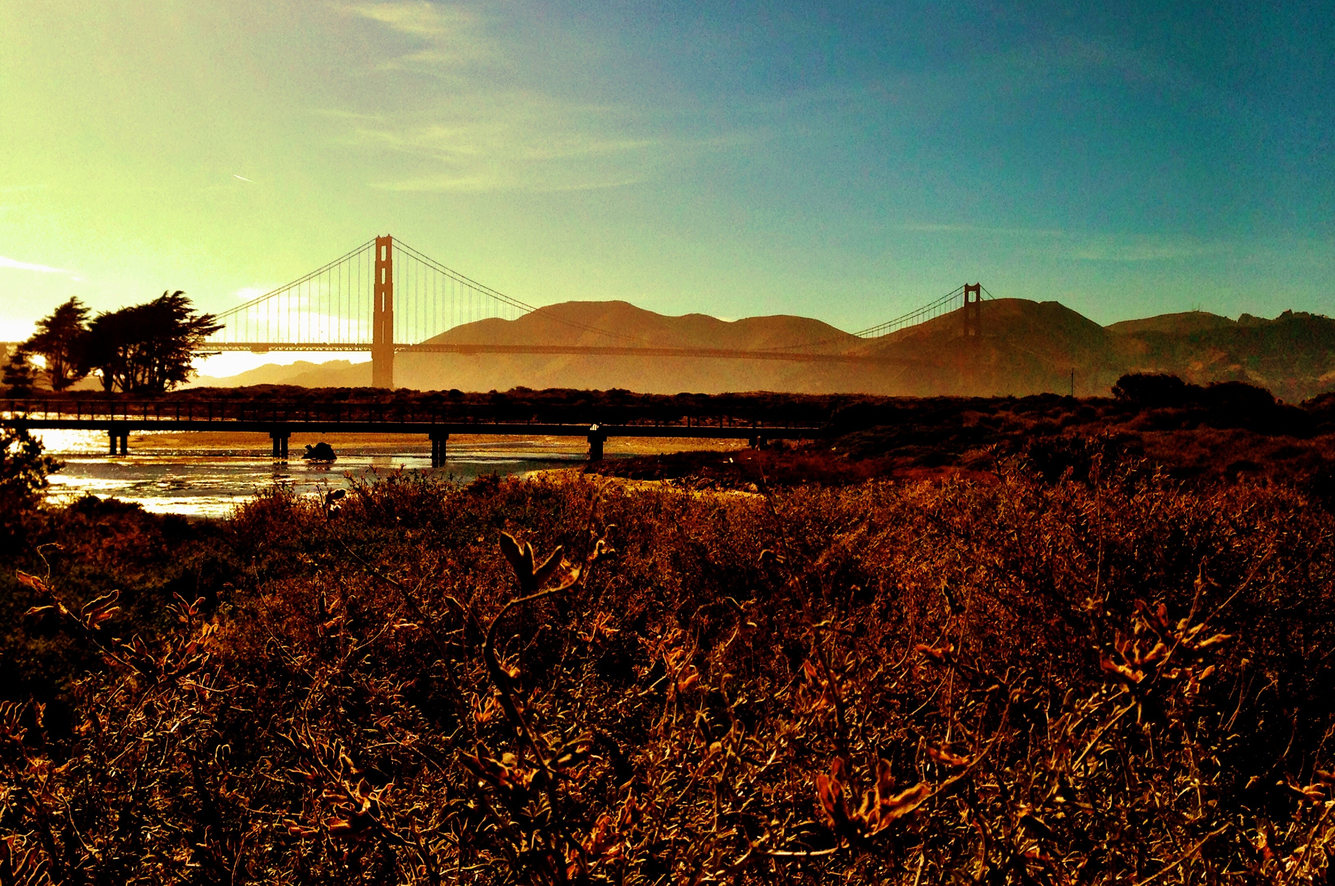
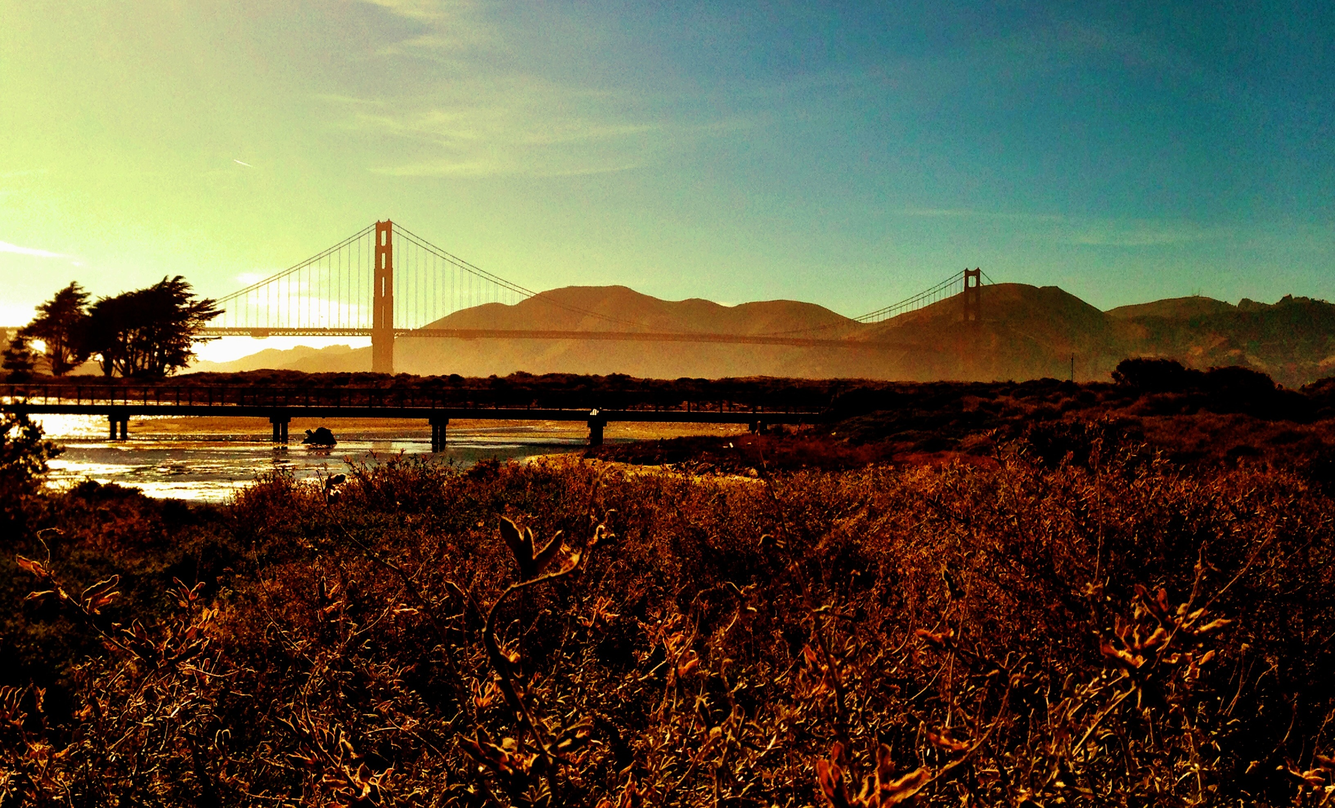
changed dimensions of main picture, added media queries for new break, cleaned up device transitions

diff --git a/index.html b/index.html
@@ -6,7 +6,7 @@
 	<script type='text/javascript' src='http://ajax.googleapis.com/ajax/libs/jquery/1.4/jquery.min.js'></script>
 </head>
 <body>
-	<a name="home">	Designed and Created by Laura Mead.  All Rights Reserved. Copyright 2014</a>
+	<a name="home" id="copyright">	Designed and Created by Laura Mead.  All Rights Reserved. Copyright 2014</a>
 	<div class="stickymenu_wrap">
 		<div class="stickymenu">
 			<a href="javscript:void(0);" id="buttonMenuHidden" class="btn_menu tablet">
@@ -20,9 +20,9 @@
 					<li class="last"><a href="#contact" class="anchorLink contact">Contact</a></li>
 				</ul>
 				<ul class="sticky_nav tablet" id="divMenuHidden">
-					<li><a href="#about" class="anchorLink aboutB">About</a></li>
+					<li><a href="#about" id="white" class="anchorLink aboutB">About</a></li>
 					<li><a href="#resume" class="anchorLink resumeB">Resume</a></li>
-					<li class="long"><a href="#portfolio" class="anchorLink portfolioB">Portfolio</a></li>
+					<li class="long"><a id="white" href="#portfolio" class="anchorLink portfolioB">Portfolio</a></li>
 					<li class="last"><a href="#contact" class="anchorLink contactB">Contact</a></li>
 				</ul>
 				<div class="push"></div>
@@ -41,9 +41,9 @@
 					<li class="last"><a href="#contact" class="anchorLink contact">Contact</a></li>
 				</ul>
 				<ul class="main_nav tablet" id="divMenu">
-					<li><a href="#about" class="anchorLink aboutB">About</a></li>
+					<li><a href="#about" id="white" class="anchorLink aboutB">About</a></li>
 					<li><a href="#resume" class="anchorLink resumeB">Resume</a></li>
-					<li class="long"><a href="#Portfolio" class="anchorLink portfolioB">Portfolio</a></li>
+					<li class="long"><a href="#Portfolio" id="white" class="anchorLink portfolioB">Portfolio</a></li>
 					<li class="last"><a href="#contact" class="anchorLink contactB">Contact</a></li>
 				</ul>
 				<div class="push"></div>

diff --git a/css/main.css b/css/main.css
@@ -25,6 +25,10 @@ body {
 	background-size: contain;
 }
 
+#white{
+	color: #fff;
+}
+
 .title{
 	font-family: 'Devil Breeze';
 	font-size: 6.5em;
@@ -203,7 +207,6 @@ h2 {
 .header h1 {
 	float: left;
 	display: inline;
-	font-size: 2.5em;
 }
 
 .header h1 a{
@@ -211,6 +214,7 @@ h2 {
 	color: #fff;
 	font-family: 'Devil Breeze';
 	letter-spacing: 4px;
+	font-size: 2em;
 }
 
 .main_nav li {
@@ -267,7 +271,13 @@ a.btn_menu img {
 /* Media Query: Tablet
 ==========================*/
 
-@media only screen and (max-width: 902px){
+@media only screen and (max-width: 1066px){
+	.header h1 a{
+		font-size: 1.5em;
+	}
+}
+
+@media only screen and (max-width: 965px){
 	.tablet, a.tablet {
 		display: block;
 	}
@@ -300,7 +310,7 @@ a.btn_menu img {
 	.main_nav li a{
 		padding: 20px 0;
 		display: block;
-		color: #fff;
+		color: #242F38;
 	}
 
 	.main_nav li.last {
@@ -356,7 +366,6 @@ a.btn_menu img {
 		width: 67%;
 		font-size: 4.5em;
 	}
-
 }
 
 /* Media Query: Phone
@@ -365,6 +374,26 @@ a.btn_menu img {
 @media only screen and (max-width: 480px) {
 	.main_nav li, .sticky_nav li{
 		width: 23%;
+	}
+
+	#copyright{
+		font-size: 0.1em;
+	}
+
+	.header h1 a{
+		font-size: 0.9em;
+	}
+
+	.stickymenu_wrap h1 a{
+		font-size: 0.9em;
+	}
+
+	.main_nav li a{
+		font-size: 0.7em;
+	}
+
+	.header h1 a{
+		font-size:;
 	}
 
 	.long{
